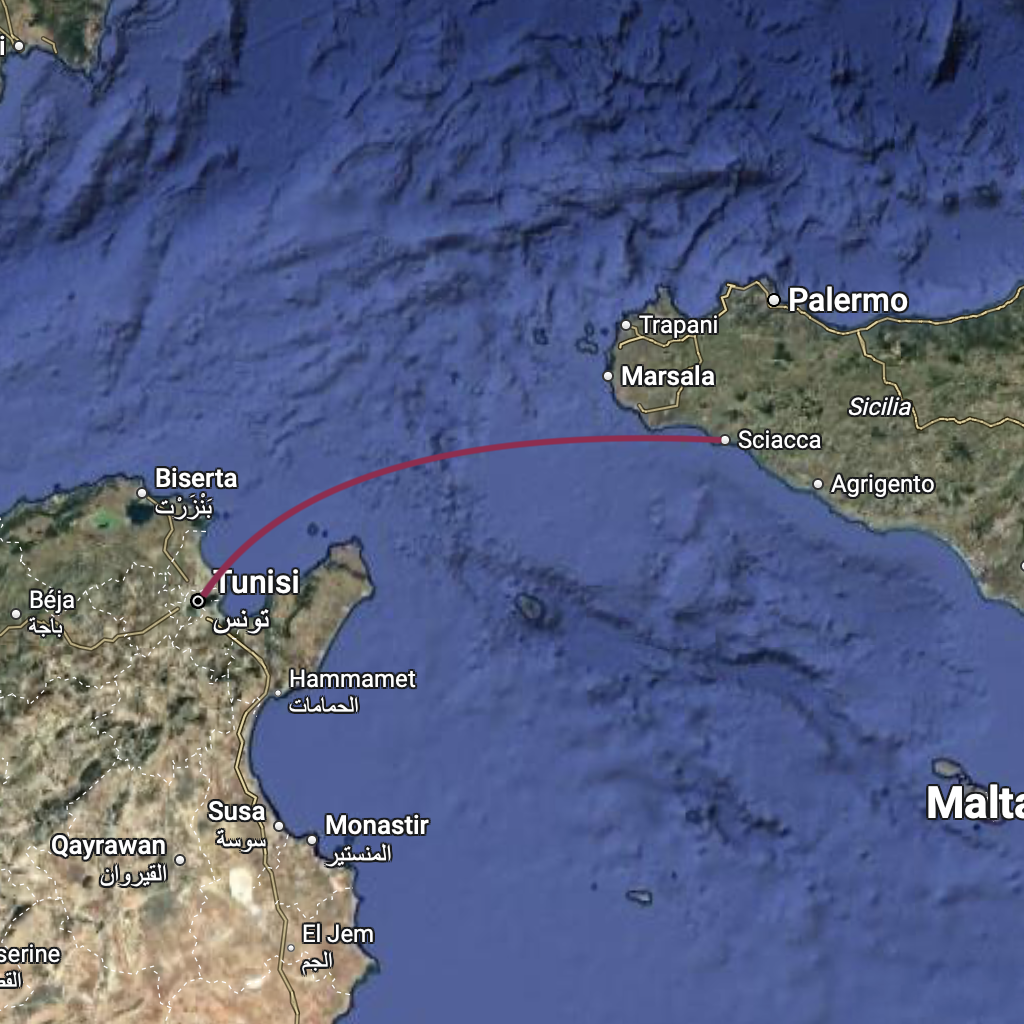
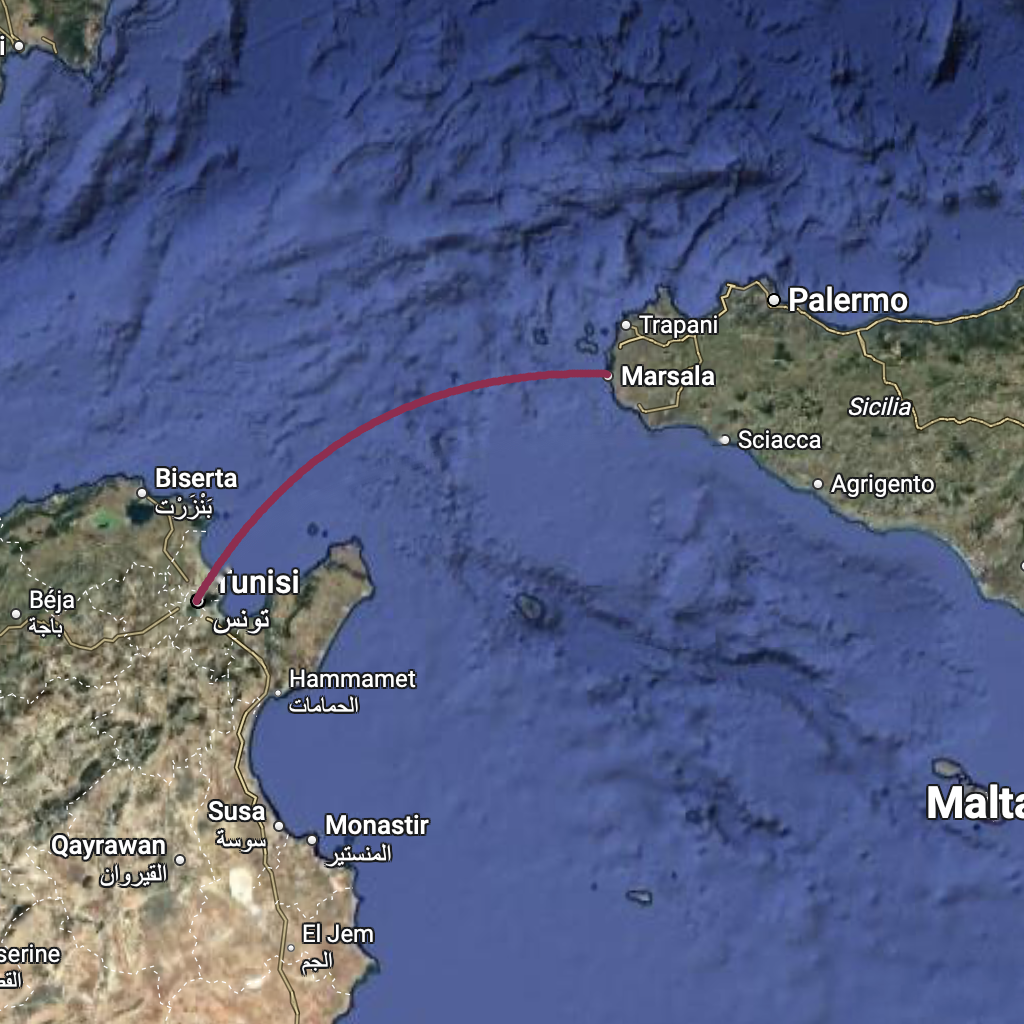
Replace Sciacca with Marsala as the crossing's starting point
- Update all text mentions (headings, paragraphs, meta descriptions,
  IT/EN i18n dictionary) from Sciacca to Marsala
- Redraw the route map: inpainted out the old Sciacca-Tunisi curve and
  drew a new one from Marsala to Tunisi in the same style

diff --git a/assets/js/i18n.js b/assets/js/i18n.js
@@ -51,8 +51,8 @@
   "home.1": { it: "<span>SOSTENERE VITE</span><br /><span class=\"text-primary italic\">ATTRAVERSO</span><br /><span>ACQUE PERICOLOSE</span>", en: "<span>SUPPORTING LIVES</span><br /><span class=\"text-primary italic\">ACROSS</span><br /><span>DANGEROUS WATERS</span>" },
   "home.2": { it: "Una traversata di 270km in mare aperto a bordo di una canoa surfski per trasformare visibilità in risorse concrete.", en: "A 270km open-water crossing aboard a surfski canoe to turn visibility into concrete resources." },
   "home.3": { it: "Contrabbandare per noi significa <span class=\"text-primary\"> andare contro la disuguaglianza. </span>", en: "Smuggling, to us, means <span class=\"text-primary\"> going against inequality. </span>" },
-  "home.4": { it: "Mappa della rotta Sciacca-Tunisi (270 KM)", en: "Map of the Sciacca-Tunisia route (270 KM)" },
-  "home.5": { it: "Tra Sciacca e la Tunisia, sfidando il mare per una missione reale.", en: "Between Sciacca and Tunisia, challenging the sea for a real mission." },
+  "home.4": { it: "Mappa della rotta Marsala-Tunisi (270 KM)", en: "Map of the Marsala-Tunisia route (270 KM)" },
+  "home.5": { it: "Tra Marsala e la Tunisia, sfidando il mare per una missione reale.", en: "Between Marsala and Tunisia, challenging the sea for a real mission." },
   "home.6": { it: "Progetto Clinico", en: "Clinical Study" },
   "home.7": { it: "Un respiratore neonatale progettato per funzionare <span class=\"font-bold underline decoration-primary underline-offset-8\">senza ossigeno medicale</span>. Lo genera direttamente dall'aria che respiriamo.", en: "A neonatal respirator designed to work <span class=\"font-bold underline decoration-primary underline-offset-8\">without medical oxygen</span>. It generates it directly from the air we breathe." },
   "home.8": { it: "Modulo SAFER", en: "SAFER Module" },
@@ -91,7 +91,7 @@
   "use strict";
   Object.assign(window.I18N_DATA, {
   "impresa.meta.title": { it: "Impresa - The Smuggle | Il mare come mezzo, la ricerca come fine", en: "The Challenge - The Smuggle | The Sea as the Means, Research as the End" },
-  "impresa.meta.description": { it: "La traversata di 270km in mare aperto da Sciacca alla Tunisia in canoa surfski. Scopri i dettagli operativi e logistici dell'impresa sportiva solidale di The Smuggle.", en: "The 270km open-water crossing from Sciacca to Tunisia by surfski canoe. Discover the operational and logistical details of The Smuggle's charity sporting challenge." },
+  "impresa.meta.description": { it: "La traversata di 270km in mare aperto da Marsala alla Tunisia in canoa surfski. Scopri i dettagli operativi e logistici dell'impresa sportiva solidale di The Smuggle.", en: "The 270km open-water crossing from Marsala to Tunisia by surfski canoe. Discover the operational and logistical details of The Smuggle's charity sporting challenge." },
   "impresa.meta.ogTitle": { it: "Impresa - The Smuggle", en: "The Challenge - The Smuggle" },
   "impresa.meta.ogDescription": { it: "Una sfida sportiva di 270km in mare aperto in canoa surfski per canalizzare attenzione mediatica e fondi verso la bioingegneria e lo studio clinico SAFER.", en: "A 270km open-water sporting challenge by surfski canoe to channel media attention and funds toward bioengineering and the SAFER clinical study." },
   "impresa.1": { it: "<span>IMPRESA.</span>", en: "<span>THE CHALLENGE.</span>" },
@@ -102,10 +102,10 @@
   "impresa.6": { it: "Chi sceglierebbe di finanziare uno studio su un respiratore pensato esclusivamente per contesti a risorse limitate, senza brevetti, proprio per mantenere la tecnologia il più possibile aperta e fruibile?", en: "Who would choose to fund a study on a respiratory device designed exclusively for resource-limited settings, with no patents, precisely to keep the technology as open and accessible as possible?" },
   "impresa.7": { it: "The Smuggle trasforma un’impresa estrema in qualcosa di più: un messaggio forte, visibile e misurabile. Perché crediamo che esistano persone abbastanza coraggiose (e un po' folli) da finanziare qualcosa di così controcorrente. Un progetto capace di parlare alle persone, ma soprattutto di generare un impatto reale.", en: "The Smuggle turns an extreme challenge into something more: a message that is strong, visible and measurable. Because we believe there are people brave enough (and a little crazy enough) to fund something so against the current. A project able to speak to people, but above all to generate a real impact." },
   "impresa.8": { it: "La Rotta", en: "The Route" },
-  "impresa.9": { it: "Da Sciacca a Tunisi", en: "From Sciacca to Tunis" },
+  "impresa.9": { it: "Da Marsala a Tunisi", en: "From Marsala to Tunis" },
   "impresa.10": { it: "SIMBOLO.", en: "SYMBOL." },
   "impresa.11": { it: "&amp; AZIONE REALE", en: "&amp; REAL ACTION" },
-  "impresa.12": { it: "La traversata del Mediterraneo da Sciacca a Tunisi non è un gesto provocatorio né un’imitazione del viaggio migratorio.", en: "The Mediterranean crossing from Sciacca to Tunis is neither a provocative gesture nor an imitation of the migrant journey." },
+  "impresa.12": { it: "La traversata del Mediterraneo da Marsala a Tunisi non è un gesto provocatorio né un’imitazione del viaggio migratorio.", en: "The Mediterranean crossing from Marsala to Tunis is neither a provocative gesture nor an imitation of the migrant journey." },
   "impresa.13": { it: "È un’azione consapevole, inserita in un contesto geopolitico delicato che riconosciamo e rispettiamo profondamente. Quel tratto di mare è segnato da tensioni diplomatiche, fragilità umane e vite spezzate, e per questo lo attraversiamo con responsabilità e rispetto.", en: "It is a conscious action, set within a delicate geopolitical context that we recognize and deeply respect. That stretch of sea is marked by diplomatic tensions, human fragility and broken lives, and for this reason we cross it with responsibility and respect." },
   "impresa.14": { it: "La traversata rappresenta per noi un mezzo concreto per trasformare visibilità in risorse: un’azione simbolica che mette il nostro privilegio al servizio di un obiettivo preciso e verificabile, ovvero finanziare lo studio clinico di SAFER. Non assistenzialismo, ma responsabilità. Non spettacolarizzazione, ma impegno.", en: "For us, the crossing represents a concrete means of turning visibility into resources: a symbolic action that puts our privilege at the service of a precise and verifiable goal, namely funding the SAFER clinical study. Not charity for its own sake, but responsibility. Not spectacle, but commitment." },
   "impresa.15": { it: "Gestione Trasparente", en: "Transparent Management" },
@@ -471,7 +471,7 @@
   "donclinical.41": { it: "Campagna l'Impresa", en: "The Challenge Campaign" },
   "donclinical.42": { it: "Torna alla Dashboard", en: "Back to Dashboard" },
   "dontraversata.meta.title": { it: "Sostieni l'Impresa Sportiva - The Smuggle | Realizzare la Traversata", en: "Support the Sporting Challenge - The Smuggle | Making the Crossing Happen" },
-  "dontraversata.meta.description": { it: "Sostieni Andrea e Giovanni nella traversata di 270km in canoa surfski da Sciacca a Tunisi. Il tuo contributo finanzia la logistica e la sicurezza del viaggio.", en: "Support Andrea and Giovanni in their 270km surfski canoe crossing from Sciacca to Tunis. Your contribution funds the logistics and safety of the journey." },
+  "dontraversata.meta.description": { it: "Sostieni Andrea e Giovanni nella traversata di 270km in canoa surfski da Marsala a Tunisi. Il tuo contributo finanzia la logistica e la sicurezza del viaggio.", en: "Support Andrea and Giovanni in their 270km surfski canoe crossing from Marsala to Tunis. Your contribution funds the logistics and safety of the journey." },
   "dontraversata.meta.ogtitle": { it: "Sostieni l'Impresa Sportiva - The Smuggle", en: "Support the Sporting Challenge - The Smuggle" },
   "dontraversata.meta.ogdescription": { it: "I fondi verranno utilizzati per coprire i costi operativi, di sicurezza e amplificare l’effetto mediatico dell’iniziativa.", en: "The funds will be used to cover operational and safety costs and to amplify the media reach of the initiative." },
   "dontraversata.1": { it: "Raccolta Fondi Logistica", en: "Logistics Fundraising" },

diff --git a/impresa/index.html b/impresa/index.html
@@ -9,7 +9,7 @@
     <meta
       name="description"
       data-i18n-attrs='{"content":"impresa.meta.description"}'
-      content="La traversata di 270km in mare aperto da Sciacca alla Tunisia in canoa surfski. Scopri i dettagli operativi e logistici dell'impresa sportiva solidale di The Smuggle."
+      content="La traversata di 270km in mare aperto da Marsala alla Tunisia in canoa surfski. Scopri i dettagli operativi e logistici dell'impresa sportiva solidale di The Smuggle."
     />
     <meta property="og:title" data-i18n-attrs='{"content":"impresa.meta.ogTitle"}' content="Impresa - The Smuggle" />
     <meta
@@ -290,7 +290,7 @@
           >
             <img
               src="../assets/images/sciacca-tunisi.png"
-              alt="Mappa della rotta Sciacca-Tunisia"
+              alt="Mappa della rotta Marsala-Tunisia"
               class="w-full h-full object-cover opacity-80 hover:scale-105 transition-transform duration-700"
             />
             <div
@@ -307,7 +307,7 @@
                 data-i18n="impresa.9"
                 class="font-display text-2xl font-bold uppercase tracking-tight"
               >
-                Da Sciacca a Tunisi
+                Da Marsala a Tunisi
               </p>
             </div>
           </div>
@@ -339,7 +339,7 @@
           data-i18n="impresa.12"
           class="font-display text-3xl md:text-5xl leading-tight font-bold text-dark/90"
         >
-          La traversata del Mediterraneo da Sciacca a Tunisi non è un gesto
+          La traversata del Mediterraneo da Marsala a Tunisi non è un gesto
           provocatorio né un’imitazione del viaggio migratorio.
         </p>
 

diff --git a/index.html b/index.html
@@ -268,7 +268,7 @@
           <div class="w-full h-full rounded-xl overflow-hidden">
             <img
               src="./assets/images/sciacca-tunisi.png"
-              alt="Mappa della rotta Sciacca-Tunisi (270 KM)"
+              alt="Mappa della rotta Marsala-Tunisi (270 KM)"
               data-i18n-attrs='{"alt":"home.4"}'
               class="w-full h-full object-cover opacity-85 group-hover:scale-110 transition-transform duration-700 ease-out"
             />
@@ -279,7 +279,7 @@
         >
           <p class="font-display font-bold text-2xl mb-2">270 KM</p>
           <p data-i18n="home.5" class="text-sm font-semibold opacity-80">
-            Tra Sciacca e la Tunisia, sfidando il mare per una missione reale.
+            Tra Marsala e la Tunisia, sfidando il mare per una missione reale.
           </p>
         </div>
       </div>

diff --git a/donations/the-smuggle-realizzare-la-traversata/index.html b/donations/the-smuggle-realizzare-la-traversata/index.html
@@ -10,7 +10,7 @@
     <!-- Meta Tags for SEO -->
     <meta
       name="description"
-      content="Sostieni Andrea e Giovanni nella traversata di 270km in canoa surfski da Sciacca a Tunisi. Il tuo contributo finanzia la logistica e la sicurezza del viaggio."
+      content="Sostieni Andrea e Giovanni nella traversata di 270km in canoa surfski da Marsala a Tunisi. Il tuo contributo finanzia la logistica e la sicurezza del viaggio."
       data-i18n-attrs='{"content":"dontraversata.meta.description"}'
     />
     <meta property="og:locale" content="it_IT" />
